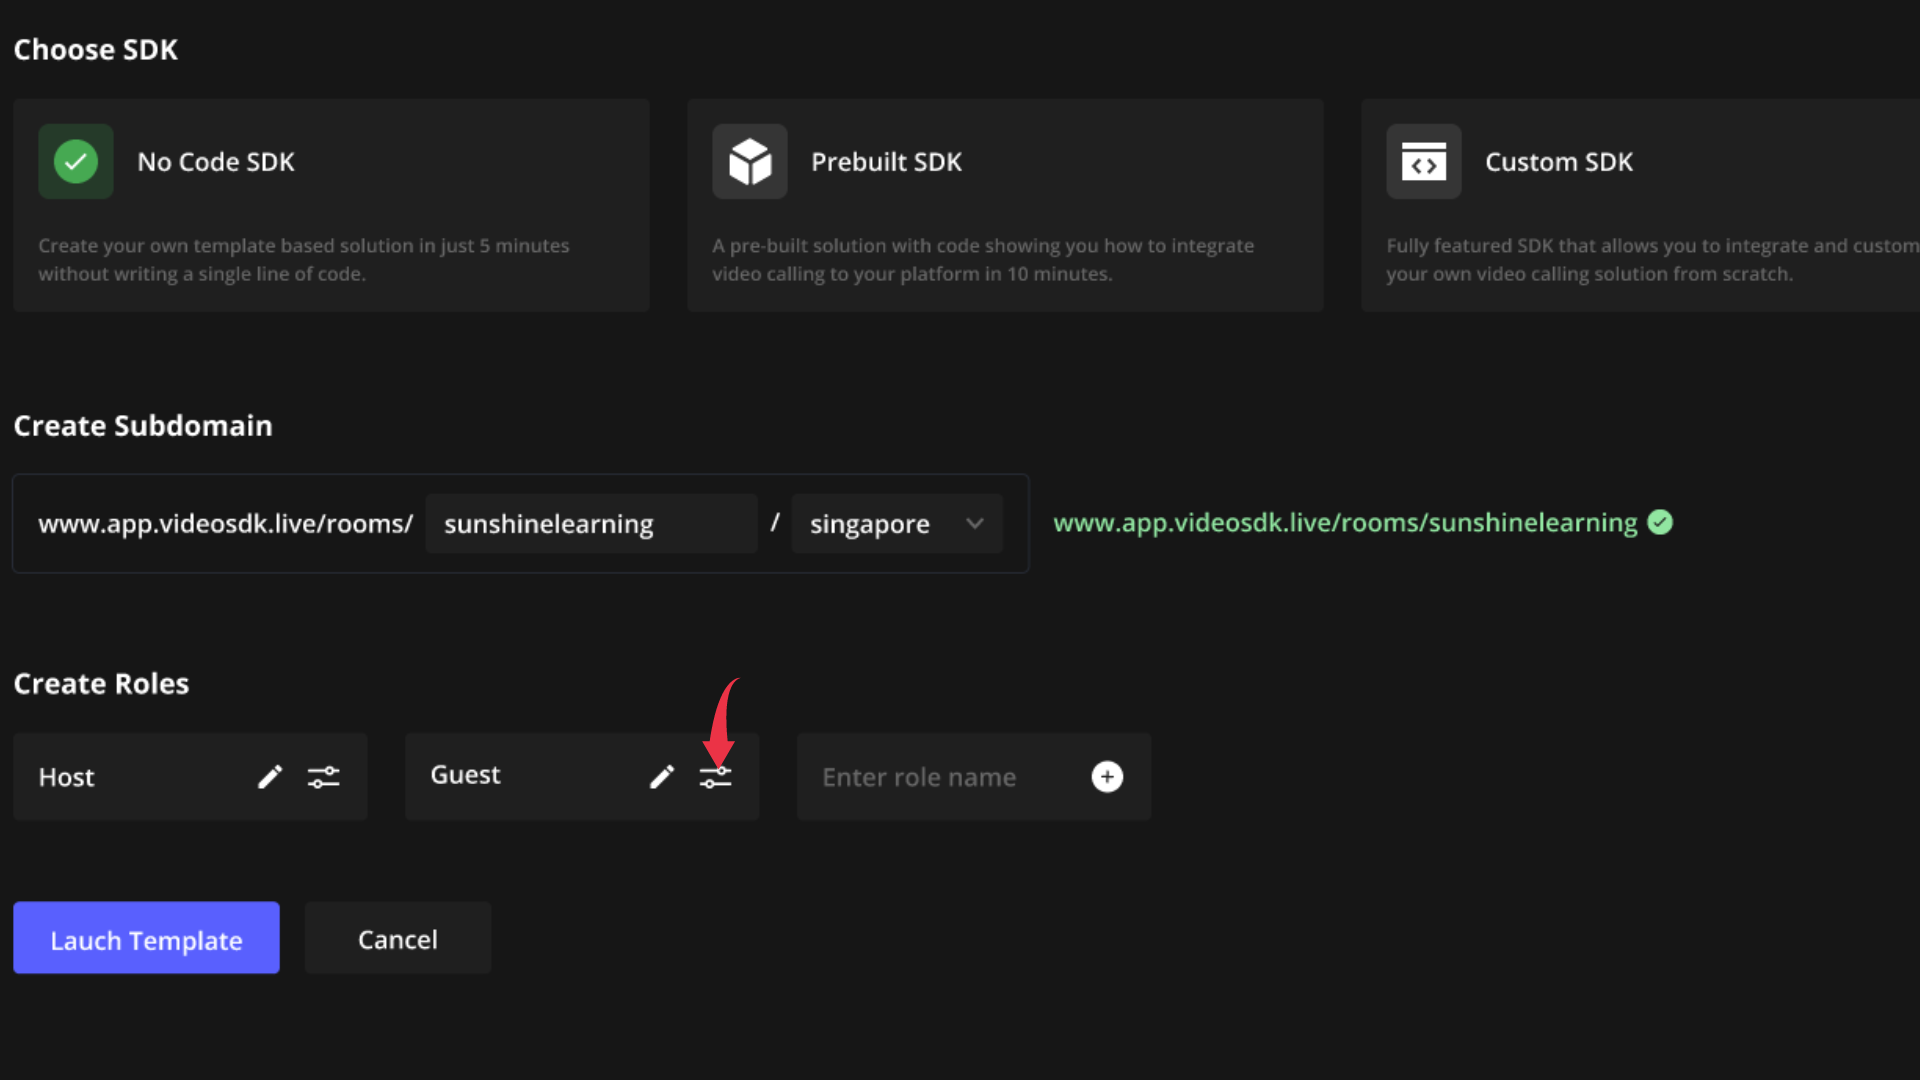
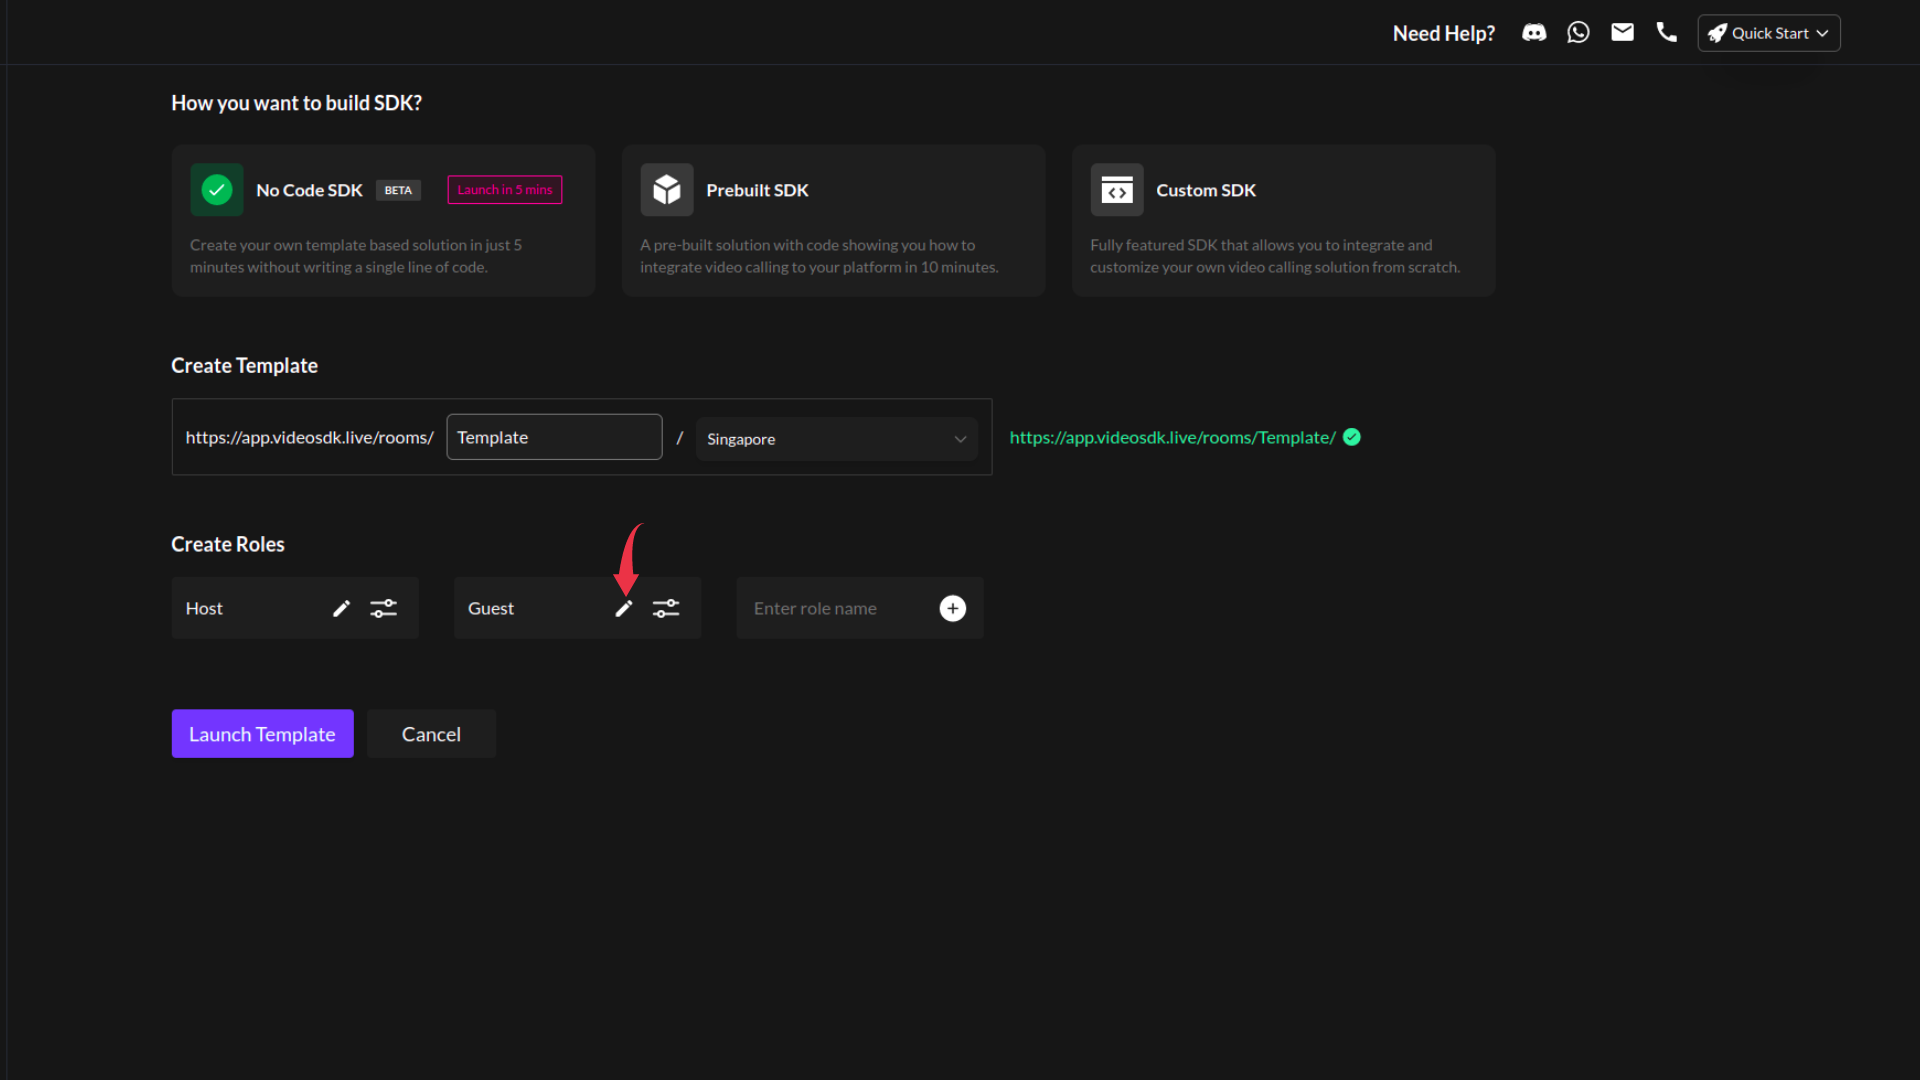
blog changes

diff --git a/docs/no-code.md b/docs/no-code.md
@@ -16,22 +16,22 @@ slug: no-code-sdk
 
 ## Introduction
 
-No Code SDK Provides custom template creation facility. You can start Video SDK’s prebuilt audio and video calling app without even writing a code .
-
-Spare your few minutes and get started with videosdk’s prebuilt audio and video calling app.
+No Code SDK provides a custom template creation facility. You can create audio-video rooms, set role-wise permission, and invite other participants in 5 mins without even writing a code.
 
 ## Prerequisites
 
 - If you are new to video sdk then create account by referring [https://app.videosdk.live/signup](https://app.videosdk.live/signup) link
 
-## Quick guide
+## Step 1 : Go to Quickstart
 
-1. Go to [Video SDK Dashboard](https://app.videosdk.live/quick-start)
+1. Go to [Quickstart panel](https://app.videosdk.live/quick-start) of Video SDK's website
 2. Select No code SDK and click on continue.
 
    ![img1.png](../static/img/no-code-img1.png)
 
-3. Add Template name and select your nearest region specified in the region combo
+## Step 2 : Create Template
+
+1. Add a Template name and select your nearest region specified in the region and click on continue.
 
    - Naming conventions for template name
      - no space is allowed
@@ -39,43 +39,71 @@ Spare your few minutes and get started with videosdk’s prebuilt audio and vide
 
    ![img2.png](../static/img/no-code-img2.png)
 
-4. Next step is to create roles for the template specified
+## Step 3 : Create Roles and Set Permissions
 
-   - Let’s say you have created a template named `Template1`
-   - You can create roles for Template1 such as Host,Guest etc
-   - **Role name should be unique for each template**
+1. Let’s say you have created a template named as `Template`
+2. By default 2 roles are provided and few permissions are also set, you can make changes in the permissions and even change the name of these 2 roles.
+3. Moreover, you can create new roles and set permissions for that particular role.
 
-   ![img3.png](../static/img/no-code-img3.png)
+**By clicking on **+** icon one can add as many roles as they want**
 
-5. After creating roles you can set permissions for each role.
+![img3.png](../static/img/no-code-img3.png)
 
-   - for example `Template1` with 2 roles `Host` and `Guest`
-   - Host has all permissions whereas Guests can only toggle their audio and video
+**You can edit default specified role name by clicking on an icon shown below**
 
-   ![img4.png](../static/img/no-code-img4.png)
+![img4.png](../static/img/no-code-img4.png)
 
-   By clicking on an icon shown in image above config panel will get populated which look like this
+**you can edit default role’s permissions by clicking on an icon mentioned below**
 
-   ![img5.png](../static/img/no-code-img5.png)
-
-   By clicking on toggle button for each permission you can set those permissions true or false.After setting all configuration click on close icon which will auto save all the permissions.
-
-6. Click on launch template to create your template and you will be redirected to the list of your templates page
-
-   ![img6.png](../static/img/no-code-img6.png)
+![img5.png](../static/img/no-code-img5.png)
 
 :::note
-By Default all templates are activated. You can change template’s state as per your requirement from the template lists.
+Role name should be unique for each template
 :::
+
+- By clicking on toggle button for each permission you can set those permissions either true or false.
+- After setting all configurations click on the close icon which will auto save all the permissions.
+
+![img6.png](../static/img/no-code-img6.png)
+
+## Step 4 : Launch Template
+
+Click on `launch template` to launch your template
 
 ![img7.png](../static/img/no-code-img7.png)
 
-## How to get started with template?
-
-- From the template list click on get template link to get role wise URL for the specific template. You can get links if that template is in status active.
+After clicking on `Launch Template` you will be redirected to a page which will contain the list of the templates created by you using `Video SDK’s no code sdk`
 
 ![img8.png](../static/img/no-code-img8.png)
 
-- Copy the link , open new tab and paste there . By doing so you will get started with Videosdk’s prebuilt video and audio calling.
+From the list you can delete role for the specific template as shown in an image below
 
 ![img9.png](../static/img/no-code-img9.png)
+
+:::note
+By Default, all templates are activated. You can toggle the button to deactivate a template.
+:::
+
+![img10.png](../static/img/no-code-img10.png)
+
+You can make changes in the role-wise permissions and also add new roles from the table.
+
+![img11.png](../static/img/no-code-img11.png)
+
+## How to start a meeting ?
+
+**Step 1** : From the template list, click on Get meeting link to get role wise URL for a specific template. You can get links only if that template is in active status.
+
+![img13.png](../static/img/no-code-img13.png)
+
+**Step 2** : Copy the link, open a new tab and paste it there.
+
+![img12.png](../static/img/no-code-img12.png)
+
+**Voila!** You have started a meeting in 5 minutes. You can copy the guest meeting link and send it to others.
+
+![img14.png](../static/img/no-code-img14.png)
+
+:::note
+each time you make changes to permissions of a role , you’ll have to copy meeting link by clicking on get meeting link for that specific role of a template or have to refresh ongoing meeting tab in order to start a meeting with new permissions for a specific role.
+:::
